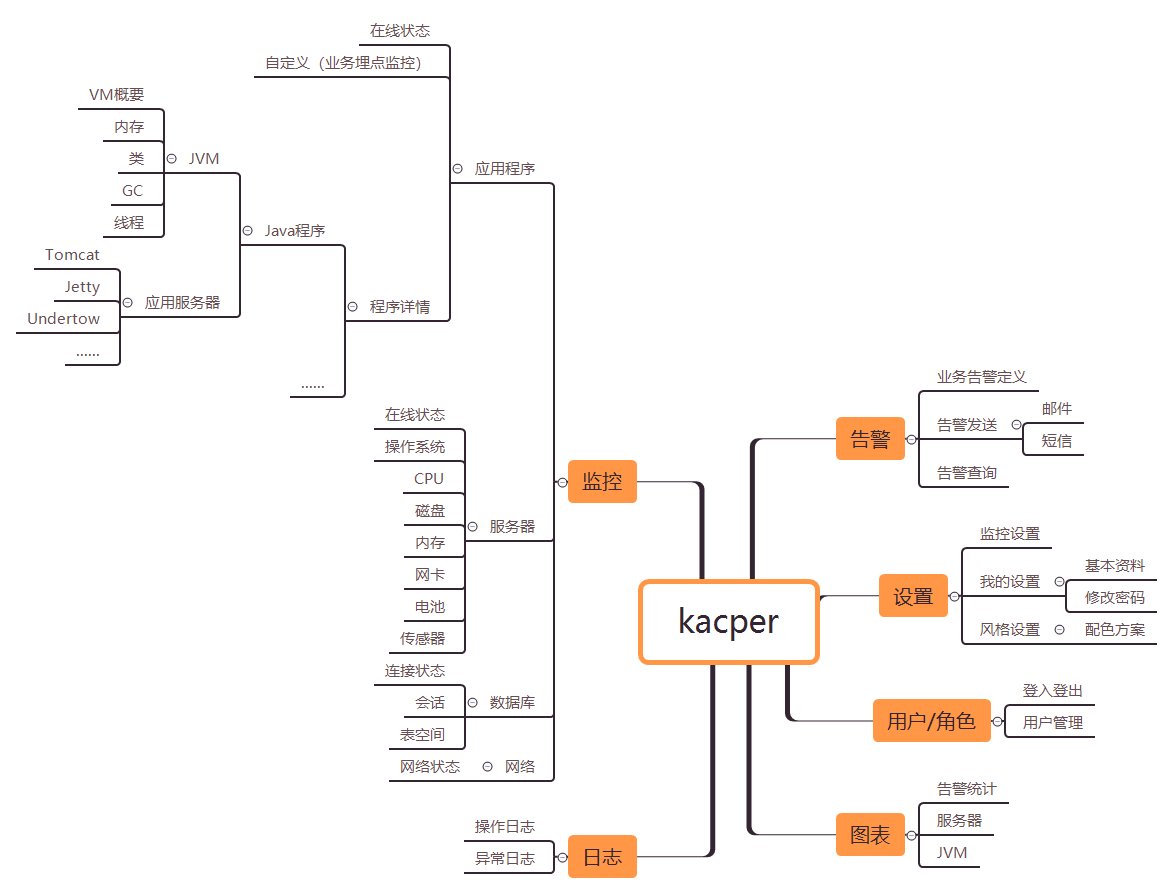
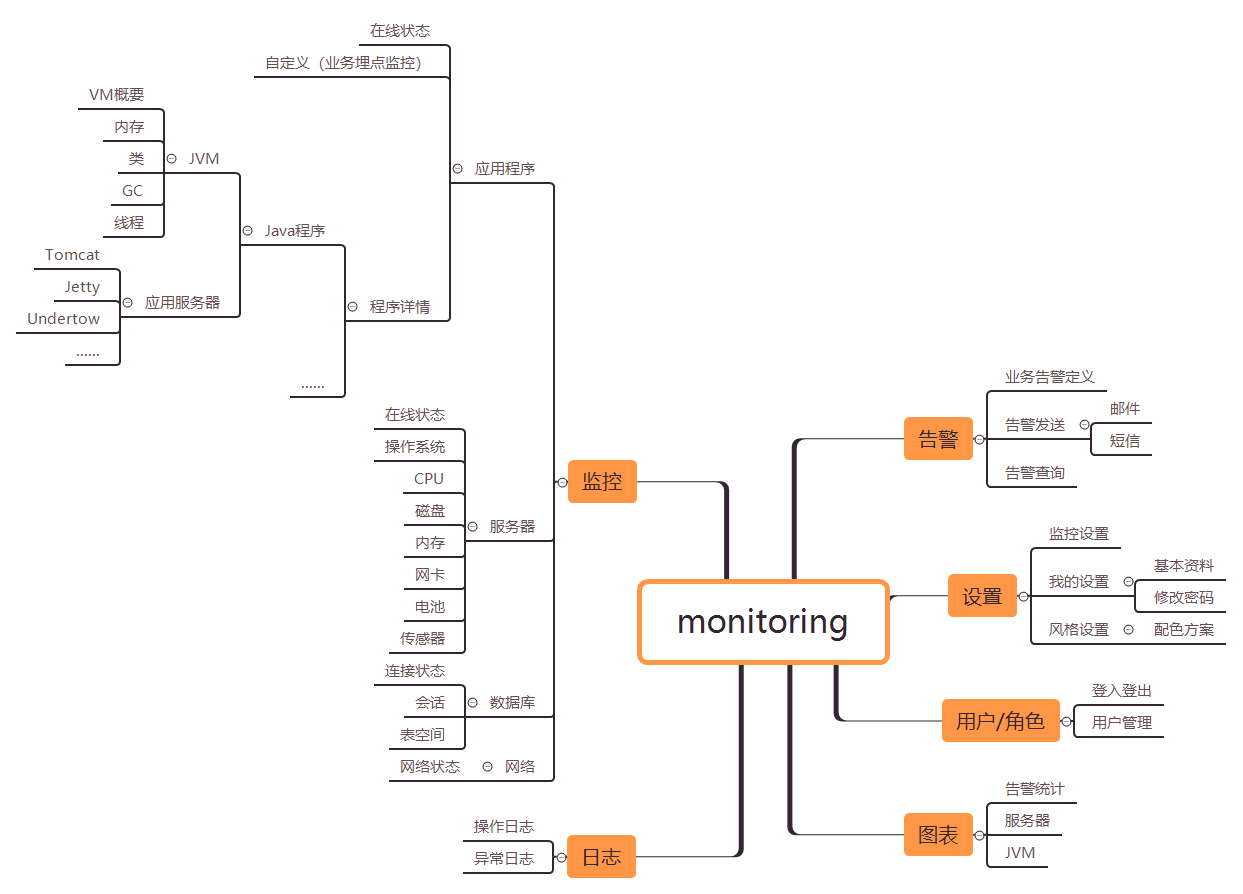
修改readme文件

diff --git a/monitoring-ui/src/main/resources/templates/index.html b/monitoring-ui/src/main/resources/templates/index.html
@@ -3,7 +3,7 @@
       xmlns:sec="http://www.thymeleaf.org/thymeleaf-extras-springsecurity5">
 <head>
     <meta charset="utf-8">
-    <title>KACPER</title>
+    <title>MONITORING</title>
     <meta name="renderer" content="webkit">
     <meta http-equiv="X-UA-Compatible" content="IE=edge,chrome=1">
     <meta name="viewport"
@@ -96,7 +96,7 @@
         <div class="layui-side layui-side-menu">
             <div class="layui-side-scroll">
                 <div class="layui-logo" th:attr="lay-href=@{/home}">
-                    <span>KACPER云监控平台</span>
+                    <span>MONITORING云监控平台</span>
                 </div>
 
                 <ul class="layui-nav layui-nav-tree" lay-shrink="all" id="LAY-system-side-menu"
@@ -199,7 +199,7 @@
                     <li data-name="user" class="layui-nav-item" sec:authorize="hasAuthority('超级管理员')">
                         <a href="javascript:;" lay-tips="附加功能" lay-direction="2">
                             <i class="layui-icon layui-icon-component"></i>
-                            <cite>kacper</cite>
+                            <cite>附加功能</cite>
                         </a>
                         <dl class="layui-nav-child">
                             <dd>

diff --git a/monitoring-ui/src/main/resources/templates/set/config/config.html b/monitoring-ui/src/main/resources/templates/set/config/config.html
@@ -126,8 +126,8 @@
                                                            style="text-align: left;">接口企业</label>
                                                     <div class="layui-input-block">
                                                         <input type="radio" name="alarmSmsEnterprise"
-                                                               th:value="KACPER" th:title="KACPER"
-                                                               th:checked="${monitorConfigPageForm.alarmSmsEnterprise=='KACPER'}? true : false">
+                                                               th:value="MONITORING" th:title="MONITORING"
+                                                               th:checked="${monitorConfigPageForm.alarmSmsEnterprise=='MONITORING'}? true : false">
                                                     </div>
                                                 </div>
                                             </div>

diff --git a/monitoring-ui/src/main/resources/static/tpl/system/about.html b/monitoring-ui/src/main/resources/static/tpl/system/about.html
@@ -9,7 +9,7 @@
 <div class="layui-card-header">关于</div>
 <div class="layui-card-body layui-text layadmin-about">
     <blockquote class="layui-elem-quote" style="border: none;">
-        “kacper”是一个灵活可配置的开源监控平台，主要用于监控应用程序、服务器、数据库和网络，通过实时收集、汇聚和分析监控信息，实现在发现异常时立刻推送告警信息，并且提供了可视化系统进行配置、管理、查看。持续更新中...
+        “monitoring”是一个灵活可配置的开源监控平台，主要用于监控应用程序、服务器、数据库和网络，通过实时收集、汇聚和分析监控信息，实现在发现异常时立刻推送告警信息，并且提供了可视化系统进行配置、管理、查看。持续更新中...
     </blockquote>
     <p>© 2020 <a href="https://gitee.com/pifeng" target="_blank">gitee.com/pifeng</a> 版权所有</p>
 </div>

diff --git a/monitoring-ui/src/main/resources/templates/user/login.html b/monitoring-ui/src/main/resources/templates/user/login.html
@@ -2,7 +2,7 @@
 <html lang="zh" xmlns:th="http://www.thymeleaf.org">
 <head>
     <meta charset="utf-8">
-    <title>KACPER</title>
+    <title>MONITORING</title>
     <meta name="renderer" content="webkit">
     <meta http-equiv="X-UA-Compatible" content="IE=edge,chrome=1">
     <meta name="viewport"
@@ -24,7 +24,7 @@
 <div class="layadmin-user-login layadmin-user-display-show" id="LAY-user-login" style="display: none;">
     <div class="layadmin-user-login-main">
         <div class="layadmin-user-login-box layadmin-user-login-header">
-            <h2>KACPER</h2>
+            <h2>MONITORING</h2>
             <p>云监控平台</p>
         </div>
         <form class="layadmin-user-login-box layadmin-user-login-body layui-form" th:action="@{/doLogin}" method="post">

diff --git a/monitoring-server/src/main/java/com/gitee/pifeng/monitoring/server/business/server/service/impl/SmsServiceImpl.java b/monitoring-server/src/main/java/com/gitee/pifeng/monitoring/server/business/server/service/impl/SmsServiceImpl.java
@@ -2,7 +2,7 @@ package com.gitee.pifeng.monitoring.server.business.server.service.impl;
 
 import com.gitee.pifeng.monitoring.common.constant.EnterpriseEnums;
 import com.gitee.pifeng.monitoring.server.business.server.core.MonitoringConfigPropertiesLoader;
-import com.gitee.pifeng.monitoring.server.business.server.domain.KacperSms;
+import com.gitee.pifeng.monitoring.server.business.server.domain.MonitoringSms;
 import com.gitee.pifeng.monitoring.server.business.server.domain.Sms;
 import com.gitee.pifeng.monitoring.server.business.server.service.ISmsService;
 import lombok.extern.slf4j.Slf4j;
@@ -42,16 +42,16 @@ public class SmsServiceImpl implements ISmsService {
         // 短信接口商家
         EnterpriseEnums enterpriseEnum = MonitoringConfigPropertiesLoader.getMonitoringProperties().getAlarmProperties().getSmsProperties().getEnterpriseEnum();
         // 判断短信接口商家，不同的商家调用不同的接口
-        if (EnterpriseEnums.KACPER == enterpriseEnum) {
-            // 调用Kacper短信接口
-            return this.callKacperSmsApi(sms);
+        if (EnterpriseEnums.MONITORING == enterpriseEnum) {
+            // 调用Monitoring短信接口
+            return this.callMonitoringSmsApi(sms);
         }
         return false;
     }
 
     /**
      * <p>
-     * 封装数据，调用Kacper公司的短信接口发送短信
+     * 封装数据，调用Monitoring公司的短信接口发送短信
      * </p>
      *
      * @param sms 短信实体对象
@@ -59,44 +59,44 @@ public class SmsServiceImpl implements ISmsService {
      * @author 皮锋
      * @custom.date 2020年3月10日 下午3:19:36
      */
-    private boolean callKacperSmsApi(Sms sms) {
+    private boolean callMonitoringSmsApi(Sms sms) {
         String enterprise = MonitoringConfigPropertiesLoader.getMonitoringProperties().getAlarmProperties().getSmsProperties().getEnterpriseEnum().name();
         // 短信不支持<br>标签换行
         String text = sms.getContent().replace("<br>", "");
         String title = sms.getTitle();
-        KacperSms kacperSms = KacperSms.builder()
+        MonitoringSms monitoringSms = MonitoringSms.builder()
                 .content(StringUtils.isBlank(title) ? text : ("[" + title + "]" + text))
                 .type(sms.getLevel())
                 .phone(StringUtils.join(sms.getPhones(), ";"))
                 .identity(enterprise)
                 .build();
-        // Kacper公司短信接口
-        return this.sendSmsByKacperApi(kacperSms);
+        // Monitoring公司短信接口
+        return this.sendSmsByMonitoringApi(monitoringSms);
     }
 
     /**
      * <p>
-     * 调用Kacper的短信接口发送短信
+     * 调用Monitoring的短信接口发送短信
      * </p>
      *
-     * @param sms Kacper短信实体对象
+     * @param sms Monitoring短信实体对象
      * @return 短信发送结果
      * @author 皮锋
      * @custom.date 2020年3月10日 上午11:01:47
      */
-    private boolean sendSmsByKacperApi(KacperSms sms) {
+    private boolean sendSmsByMonitoringApi(MonitoringSms sms) {
         String alarmSmsAddress = MonitoringConfigPropertiesLoader.getMonitoringProperties().getAlarmProperties().getSmsProperties().getAddress();
         // URL地址
         String url = alarmSmsAddress + "?phone=" + sms.getPhone() + "&type=" + sms.getType() + "&content="
                 + sms.getContent() + "&identity=" + sms.getIdentity();
-        log.info("Kacper的短信接口URL：{}", url);
+        log.info("Monitoring的短信接口URL：{}", url);
         try {
             ResponseEntity<String> responseEntity = this.restTemplate.getForEntity(url, String.class);
             String body = responseEntity.getBody();
             // 短信发送成功
             return StringUtils.isNotBlank(body);
         } catch (Exception e) {
-            log.error("调用Kacper的短信接口发送短信异常！", e);
+            log.error("调用Monitoring的短信接口发送短信异常！", e);
             return false;
         }
     }

diff --git a/monitoring-agent/src/main/java/com/gitee/pifeng/monitoring/agent/config/SwaggerConfig.java b/monitoring-agent/src/main/java/com/gitee/pifeng/monitoring/agent/config/SwaggerConfig.java
@@ -80,7 +80,7 @@ public class SwaggerConfig {
                 // 版本号
                 .version("LATEST-SNAPSHOT")
                 // 描述
-                .description("“kacper”是一个灵活可配置的开源监控平台，主要用于监控应用程序、服务器、数据库和网络，通过实时收集、汇聚和分析监控信息，实现在发现异常时立刻推送告警信息，并且提供了可视化系统进行配置、管理、查看。持续更新中...")
+                .description("“monitoring”是一个灵活可配置的开源监控平台，主要用于监控应用程序、服务器、数据库和网络，通过实时收集、汇聚和分析监控信息，实现在发现异常时立刻推送告警信息，并且提供了可视化系统进行配置、管理、查看。持续更新中...")
                 // 构建
                 .build();
     }

diff --git a/monitoring-server/src/main/java/com/gitee/pifeng/monitoring/server/config/SwaggerConfig.java b/monitoring-server/src/main/java/com/gitee/pifeng/monitoring/server/config/SwaggerConfig.java
@@ -80,7 +80,7 @@ public class SwaggerConfig {
                 // 版本号
                 .version("LATEST-SNAPSHOT")
                 // 描述
-                .description("“kacper”是一个灵活可配置的开源监控平台，主要用于监控应用程序、服务器、数据库和网络，通过实时收集、汇聚和分析监控信息，实现在发现异常时立刻推送告警信息，并且提供了可视化系统进行配置、管理、查看。持续更新中...")
+                .description("“monitoring”是一个灵活可配置的开源监控平台，主要用于监控应用程序、服务器、数据库和网络，通过实时收集、汇聚和分析监控信息，实现在发现异常时立刻推送告警信息，并且提供了可视化系统进行配置、管理、查看。持续更新中...")
                 // 构建
                 .build();
     }

diff --git a/monitoring-ui/src/main/java/com/gitee/pifeng/monitoring/ui/config/SwaggerConfig.java b/monitoring-ui/src/main/java/com/gitee/pifeng/monitoring/ui/config/SwaggerConfig.java
@@ -78,7 +78,7 @@ public class SwaggerConfig {
                 // 版本号
                 .version("LATEST-SNAPSHOT")
                 // 描述
-                .description("“kacper”是一个灵活可配置的开源监控平台，主要用于监控应用程序、服务器、数据库和网络，通过实时收集、汇聚和分析监控信息，实现在发现异常时立刻推送告警信息，并且提供了可视化系统进行配置、管理、查看。持续更新中...")
+                .description("“monitoring”是一个灵活可配置的开源监控平台，主要用于监控应用程序、服务器、数据库和网络，通过实时收集、汇聚和分析监控信息，实现在发现异常时立刻推送告警信息，并且提供了可视化系统进行配置、管理、查看。持续更新中...")
                 // 构建
                 .build();
     }

diff --git a/monitoring-server/src/main/java/com/gitee/pifeng/monitoring/server/business/server/core/MonitoringConfigPropertiesLoader.java b/monitoring-server/src/main/java/com/gitee/pifeng/monitoring/server/business/server/core/MonitoringConfigPropertiesLoader.java
@@ -125,7 +125,7 @@ public class MonitoringConfigPropertiesLoader {
         // 告警邮箱配置属性
         MonitoringAlarmMailProperties alarmMailProperties = new MonitoringAlarmMailProperties();
         // 告警短信配置属性
-        MonitoringAlarmSmsProperties alarmSmsProperties = new MonitoringAlarmSmsProperties(null, null, ProtocolTypeEnums.HTTP, EnterpriseEnums.KACPER);
+        MonitoringAlarmSmsProperties alarmSmsProperties = new MonitoringAlarmSmsProperties(null, null, ProtocolTypeEnums.HTTP, EnterpriseEnums.MONITORING);
         // 告警配置属性
         MonitoringAlarmProperties alarmProperties = new MonitoringAlarmProperties(false, AlarmLevelEnums.INFO, new AlarmWayEnums[]{AlarmWayEnums.MAIL, AlarmWayEnums.SMS}, alarmSmsProperties, alarmMailProperties);
         // 网络配置属性

diff --git a/monitoring-common/monitoring-common-core/src/main/java/com/gitee/pifeng/monitoring/common/constant/EnterpriseEnums.java b/monitoring-common/monitoring-common-core/src/main/java/com/gitee/pifeng/monitoring/common/constant/EnterpriseEnums.java
@@ -13,9 +13,9 @@ import org.apache.commons.lang3.StringUtils;
 public enum EnterpriseEnums {
 
     /**
-     * Kacper
+     * monitoring
      */
-    KACPER;
+    MONITORING;
 
     /**
      * <p>
@@ -28,9 +28,9 @@ public enum EnterpriseEnums {
      * @custom.date 2021/1/28 21:03
      */
     public static EnterpriseEnums str2Enum(String enterpriseStr) {
-        // Kacper
-        if (StringUtils.equalsIgnoreCase(EnterpriseEnums.KACPER.name(), enterpriseStr)) {
-            return EnterpriseEnums.KACPER;
+        // monitoring
+        if (StringUtils.equalsIgnoreCase(EnterpriseEnums.MONITORING.name(), enterpriseStr)) {
+            return EnterpriseEnums.MONITORING;
         }
         return null;
     }

diff --git a/monitoring-server/src/main/java/com/gitee/pifeng/monitoring/server/business/server/domain/MonitoringSms.java b/monitoring-server/src/main/java/com/gitee/pifeng/monitoring/server/business/server/domain/MonitoringSms.java
@@ -5,7 +5,7 @@ import lombok.*;
 
 /**
  * <p>
- * kacper短信实体对象
+ * monitoring短信实体对象
  * </p>
  *
  * @author 皮锋
@@ -17,7 +17,7 @@ import lombok.*;
 @EqualsAndHashCode(callSuper = true)
 @NoArgsConstructor
 @AllArgsConstructor
-public class KacperSms extends AbstractSuperBean {
+public class MonitoringSms extends AbstractSuperBean {
 
     /**
      * 手机号码，多个手机号码用英文分号隔开

diff --git a/README.md b/README.md
@@ -1,6 +1,6 @@
 ## 介绍
 
-**“kacper”** 是一个灵活可配置的开源监控平台，主要用于监控应用程序、服务器、数据库和网络，通过实时收集、汇聚和分析监控信息，实现在发现异常时立刻推送告警信息，并且提供了可视化系统进行配置、管理、查看。持续更新中...
+**“monitoring”** 是一个灵活可配置的开源监控平台，主要用于监控应用程序、服务器、数据库和网络，通过实时收集、汇聚和分析监控信息，实现在发现异常时立刻推送告警信息，并且提供了可视化系统进行配置、管理、查看。持续更新中...
 
 - 应用程序
 
